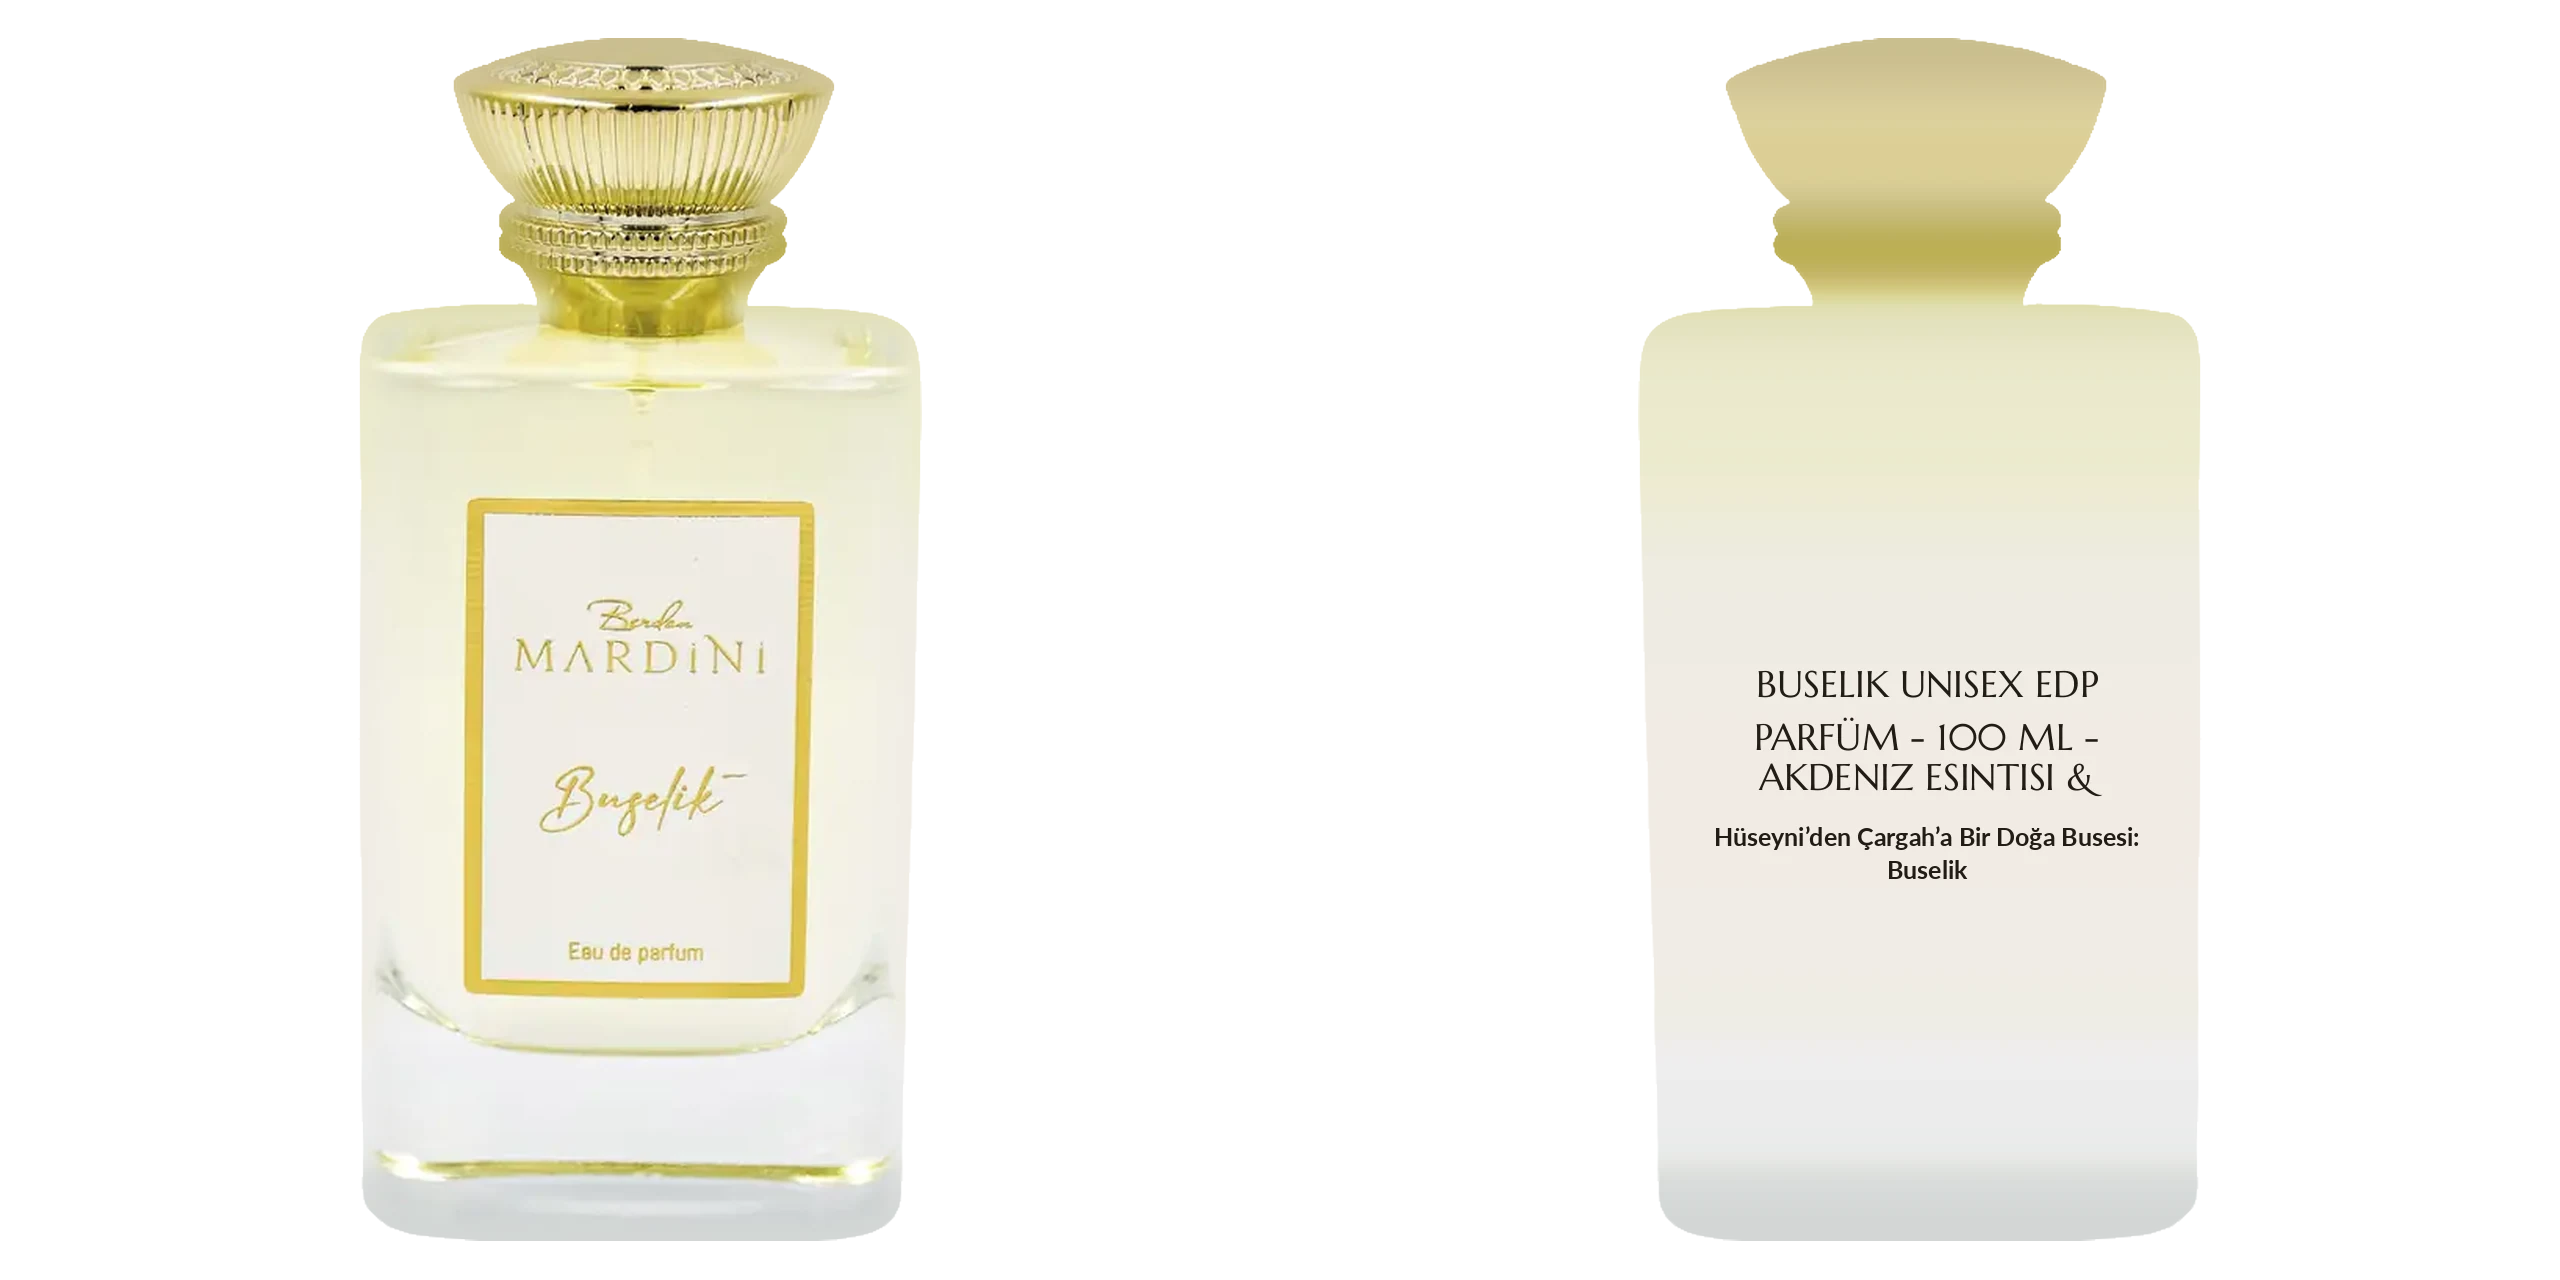
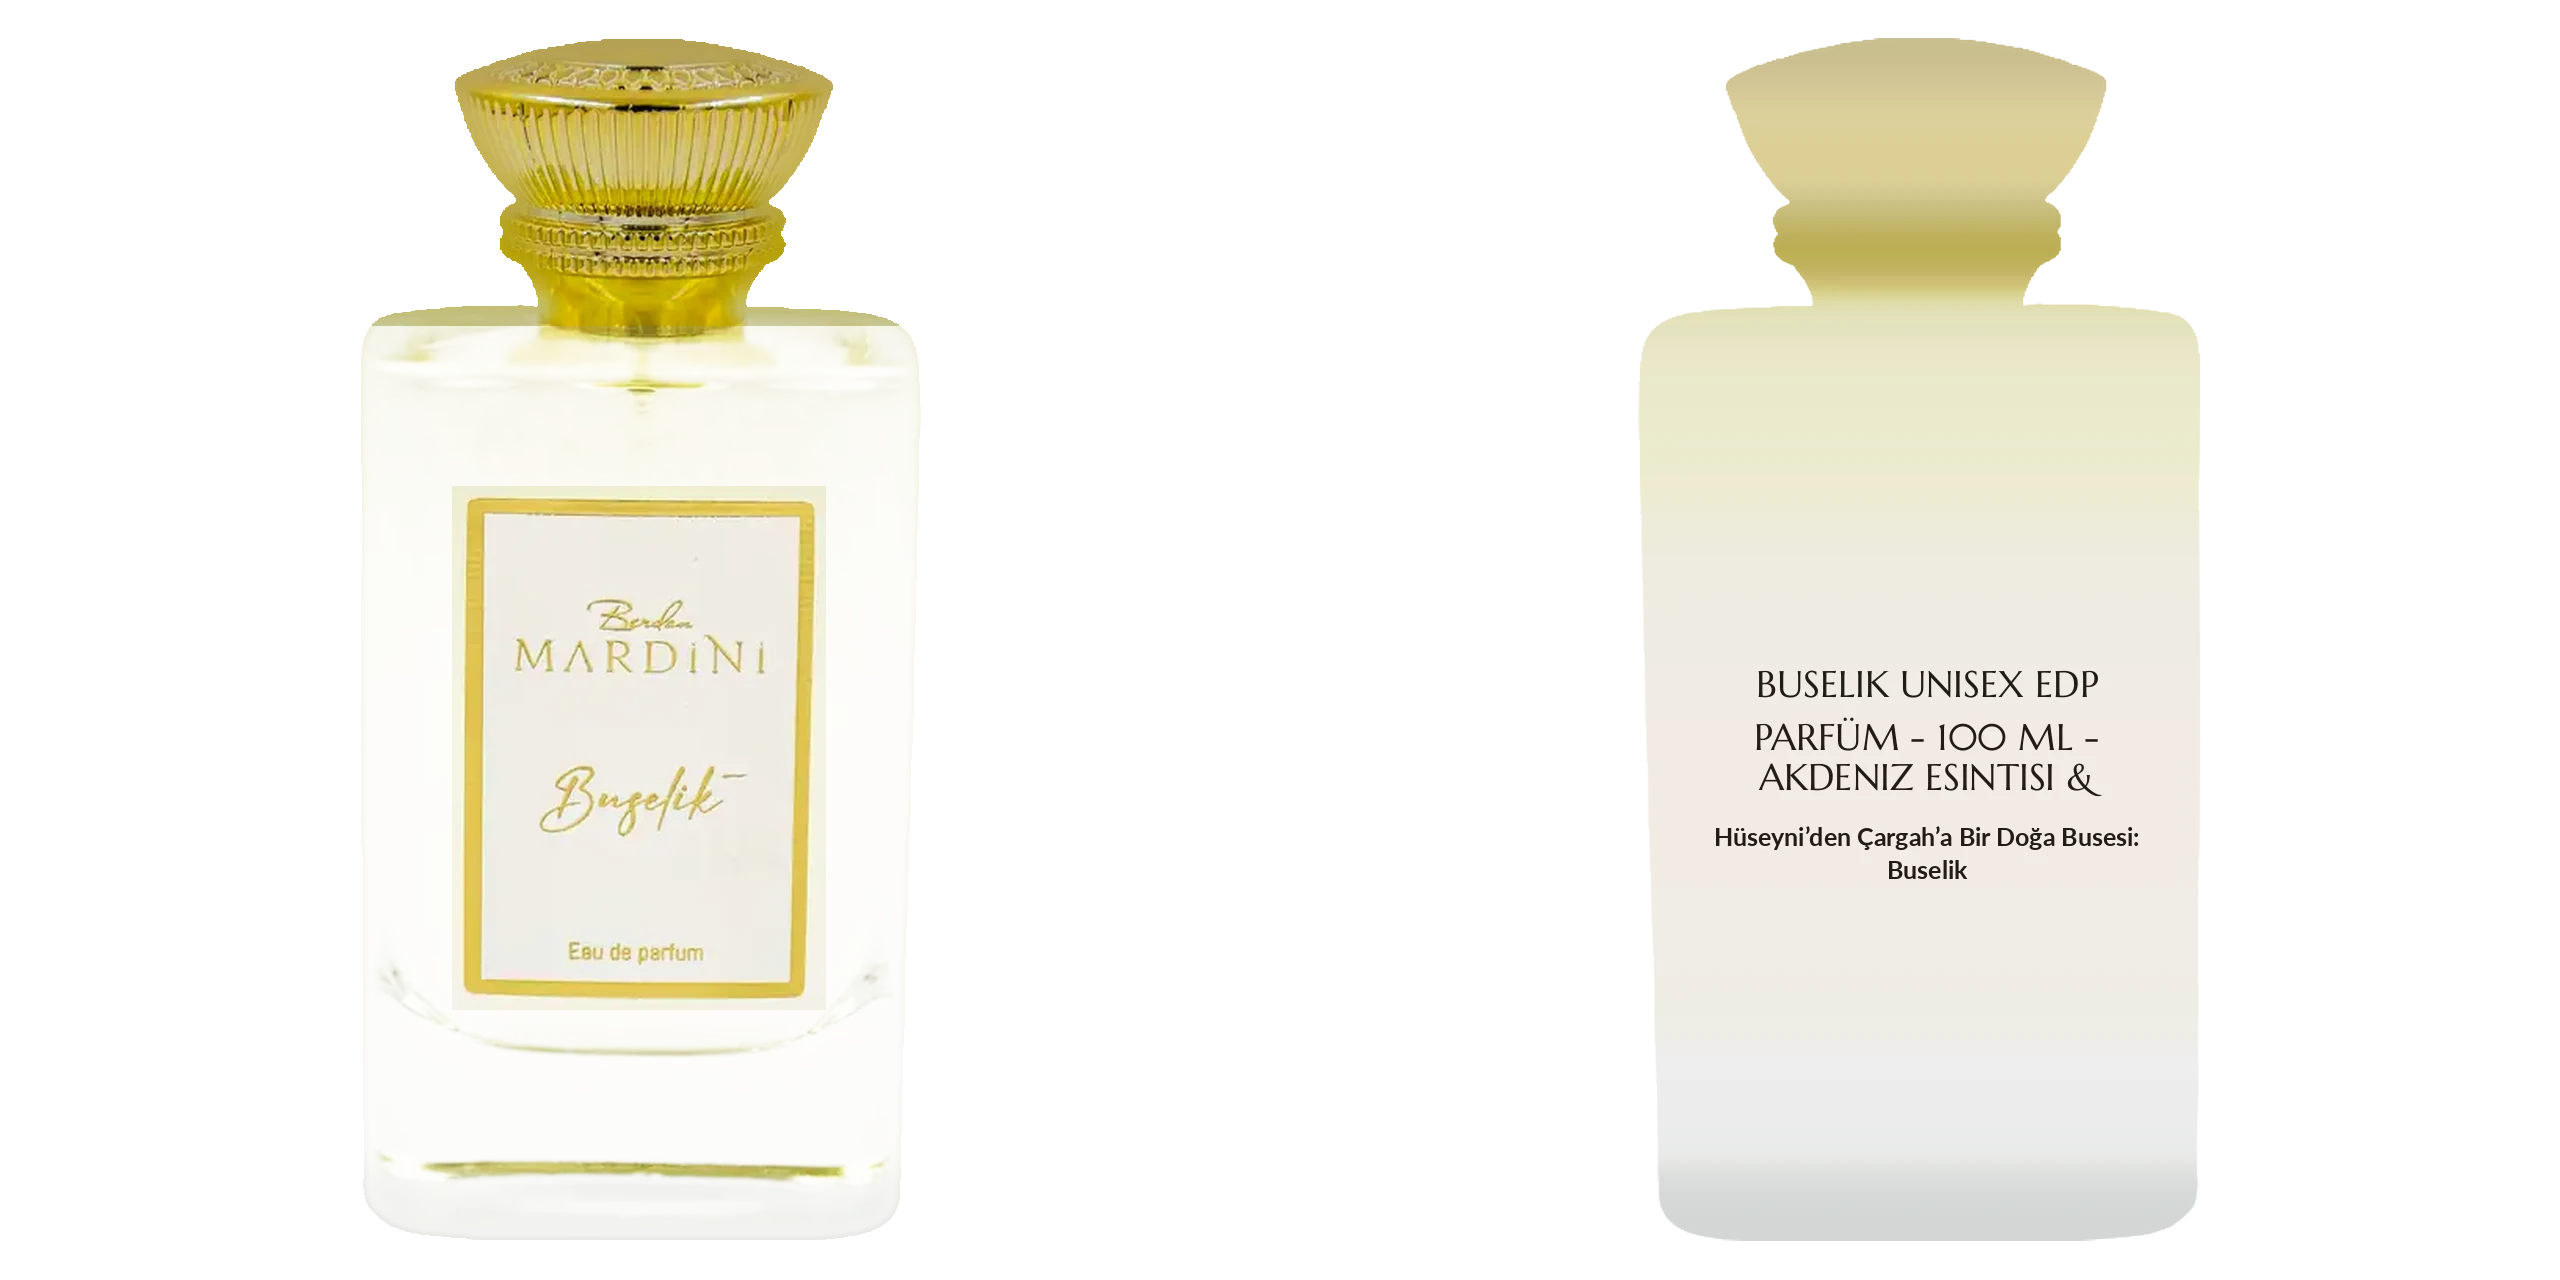
Mardini: şeffaf cam şişeler (glassAlpha)
- shopify-foto: glassAlpha kuralı; etiket dikdörtgeni bulunur, camın içinden
  görünen stüdyo beyazı yarı saydam ve sıvı renginde olur; açık altın kapaklar
  3B ışıkta beyaza kaçmasın diye doygunlaştırılır.
- content.glass: etiket malzemesi saydam çizilir, cam yan yüzleri yarı saydam.

Claude-Session: https://claude.ai/code/session_017jT9ScQr3mTZ7wu3auQ4Cz

Changed region(s): [[0.125, 0.0312, 0.375, 0.5625], [0.125, 0.9062, 0.375, 0.9688], [0.125, 0.75, 0.375, 0.8438]]

diff --git a/demolar/mardini/src/canMaterial.js b/demolar/mardini/src/canMaterial.js
@@ -50,7 +50,8 @@ export function setCanFlavor(uniforms, flavor) {
 
 // Cam şişenin içindeki parfüm ve etiket.
 export function createCanMaterial(base, uniforms) {
-  const material = new MeshPhysicalMaterial({ map: base.map, alphaTest: 0.5, ...FINISH });
+  // content.glass: şeffaf cam şişeler; dokunun alfası yarı saydam camdır, malzeme saydam çizilir.
+  const material = new MeshPhysicalMaterial({ map: base.map, alphaTest: content.glass ? 0.02 : 0.5, transparent: !!content.glass, ...FINISH });
   // Sahne her karede yansımayı ve cilayı kısar/açar; oranlar bu değerlere göre.
   material.userData.finish = FINISH;
 

diff --git a/hope-demo/src/canMaterial.js b/hope-demo/src/canMaterial.js
@@ -50,7 +50,8 @@ export function setCanFlavor(uniforms, flavor) {
 
 // Cam şişenin içindeki parfüm ve etiket.
 export function createCanMaterial(base, uniforms) {
-  const material = new MeshPhysicalMaterial({ map: base.map, alphaTest: 0.5, ...FINISH });
+  // content.glass: şeffaf cam şişeler; dokunun alfası yarı saydam camdır, malzeme saydam çizilir.
+  const material = new MeshPhysicalMaterial({ map: base.map, alphaTest: content.glass ? 0.02 : 0.5, transparent: !!content.glass, ...FINISH });
   // Sahne her karede yansımayı ve cilayı kısar/açar; oranlar bu değerlere göre.
   material.userData.finish = FINISH;
 

diff --git a/demolar/mardini/src/CanMesh.jsx b/demolar/mardini/src/CanMesh.jsx
@@ -599,6 +599,9 @@ export function createBottleParts(f = {}) {
           clearcoatRoughness: 0.04,
           envMapIntensity: 1.5,
           emissive: new Color(S.liquid ?? S.edge).multiplyScalar(0.22),
+          // Saydam cam (glass): kalınlık yüzlerinden de arkadaki sahne görünür.
+          transparent: !!S.glass,
+          opacity: S.glass ? 0.32 : 1,
         })
       : new MeshStandardMaterial({ color: S.edge ?? "#8a7a60", roughness: 0.55, envMapIntensity: 0.6 });
     if (!S.clear) parts.side.color.multiplyScalar(0.78); // kenar ışığı fotoğraftakinden biraz koyu dursun

diff --git a/hope-demo/src/CanMesh.jsx b/hope-demo/src/CanMesh.jsx
@@ -599,6 +599,9 @@ export function createBottleParts(f = {}) {
           clearcoatRoughness: 0.04,
           envMapIntensity: 1.5,
           emissive: new Color(S.liquid ?? S.edge).multiplyScalar(0.22),
+          // Saydam cam (glass): kalınlık yüzlerinden de arkadaki sahne görünür.
+          transparent: !!S.glass,
+          opacity: S.glass ? 0.32 : 1,
         })
       : new MeshStandardMaterial({ color: S.edge ?? "#8a7a60", roughness: 0.55, envMapIntensity: 0.6 });
     if (!S.clear) parts.side.color.multiplyScalar(0.78); // kenar ışığı fotoğraftakinden biraz koyu dursun

diff --git a/demo-fabrikasi/araclar/shopify-foto.py b/demo-fabrikasi/araclar/shopify-foto.py
@@ -19,6 +19,8 @@ Kurallar: markalar/<marka>-kurallar.json → "foto" (hepsi isteğe bağlı):
                                      verilirse yalnızca ürünün o orandan aşağısı (gövde; kapak çevresi boş kalır)
     "clear": "regex"                şeffaf camlı şişeler: 3B'de kalınlık yüzleri içindeki parfümün renginde sıvı dolu cam
                                      (omuz altında hava payı ve sıvı yüzeyinde parlak çizgi)
+    "glassAlpha": "regex"           şeffaf cam şişe: camın içinden görünen stüdyo beyazı yarı saydam; etiket (en büyük
+                                     dikdörtgen kontur), kapak ve cam kenarı olduğu gibi kalır (marka dosyasında "glass": true)
     "edgeFrom": "side"              3B kalınlık yüzlerinin rengi fotoğraftaki yan panelden (kesim kenarından değil)
     "backLang": "en"                arka etiket metni İngilizce mağazadan (mağazanın varsayılan dili Türkçe değilse)
     "solidTop": 0.25                ürünün üst bölümü (oran) delik bırakılmadan dolu kesilir (zemine yakın renkli kapak)
@@ -310,6 +312,72 @@ def seal_front(F):
     w, _ = _edge_weight(F)
     rgb = _row_fill(F) * (1 - w) + a[..., :3] * w
     return Image.fromarray(np.concatenate([rgb, a[..., 3:4]], axis=2).clip(0, 255).astype(np.uint8))
+
+
+def label_rect(F, top):
+    """Şişenin ön etiketi: gövdedeki (boyun altı) en büyük dikdörtgen kontur (etiket çerçevesi).
+    Dönen: (x0, y0, x1, y1) ya da None."""
+    a = np.asarray(F)
+    g = cv2.cvtColor(a[..., :3], cv2.COLOR_RGB2GRAY)
+    m = a[..., 3] > 128
+    rows = np.where(m.any(1))[0]
+    if not len(rows):
+        return None
+    y0 = max(top, rows[0])
+    ed = cv2.Canny(cv2.GaussianBlur(g, (3, 3), 0), 40, 110)
+    ed[:y0] = 0
+    ed = cv2.dilate(ed, np.ones((3, 3), np.uint8))
+    cs, _ = cv2.findContours(ed, cv2.RETR_LIST, cv2.CHAIN_APPROX_SIMPLE)
+    body = m[y0:].sum()
+    best = None
+    for c in cs:
+        x, y, w, h = cv2.boundingRect(c)
+        area = w * h
+        if not (0.1 * body < area < 0.7 * body) or h < w * 0.6:
+            continue
+        # Dikdörtgene yakın mı (kontur alanı kutunun büyük kısmı)
+        if cv2.contourArea(cv2.convexHull(c)) < 0.8 * area:
+            continue
+        if best is None or area > best[4]:
+            best = (x, y, x + w, y + h, area)
+    return best[:4] if best else None
+
+
+def glass_front(F, neck, liquid=None):
+    """Şeffaf cam (glassAlpha): beyaz stüdyo zemininde çekilmiş şişede camın içinden görünen beyaz
+    zemin yarı saydam olur (sahne camın içinden görünür). Etiket, kapak, cam kenarlarındaki koyu
+    çizgiler ve parlamalar olduğu gibi kalır; sıvının hafif rengi korunur."""
+    a = np.asarray(F).astype(np.float32)
+    rgb, al = a[..., :3], a[..., 3]
+    top = int((neck or 0.3) * S) + int(0.02 * S)
+    lab = label_rect(F, top)
+    m = al > 128
+    # Kesimin dış saçağı (stüdyo beyazı) 2 px içeri alınır; silüet kenarında çok ince bir bant cam
+    # kenarı olarak daha az saydamlaşır.
+    d = cv2.distanceTransform(m.astype(np.uint8), cv2.DIST_L2, 5)
+    al = np.where(d < 2, 0, al)
+    edge = np.clip(d / (0.006 * S), 0, 1)
+    region = (d > 0).astype(np.float32) * (0.45 + 0.55 * edge)
+    region[:top] = 0
+    if lab:
+        x0, y0, x1, y1 = lab
+        pad = int(0.008 * S)
+        region[max(0, y0 - pad):y1 + pad, max(0, x0 - pad):x1 + pad] = 0
+    L = rgb.mean(2)
+    sat = rgb.max(2) - rgb.min(2)
+    see = np.clip((L - 150) / 85, 0, 1) * np.clip(1 - (sat - 25) / 60, 0, 1)
+    see = cv2.GaussianBlur(see.astype(np.float32), (0, 0), 1.2) * region
+    tint = np.array(liquid if liquid else [236, 228, 200], np.float32)
+    rgb2 = rgb * (1 - 0.55 * see[..., None]) + tint * 0.55 * see[..., None]
+    al2 = al * (1 - 0.8 * see)
+    # Açık altın kapak 3B ışıkta beyaza kaçmasın: kapaktaki renkli (altın) piksellerin rengi biraz
+    # doygunlaşır ve koyulaşır; gümüş/siyah kapaklar (renksiz) değişmez.
+    cap = np.zeros_like(L)
+    cap[:top] = np.clip((sat[:top] - 12) / 30, 0, 1)
+    Lc = L[..., None]
+    rgb2 = rgb2 * (1 - cap[..., None]) + (Lc + (rgb2 - Lc) * 2.1) * 0.8 * cap[..., None]
+    out = np.concatenate([rgb2, al2[..., None]], 2).clip(0, 255).astype(np.uint8)
+    return Image.fromarray(out), lab
 
 
 def plain_back(F, back_photo=None, text=None):
@@ -903,7 +971,12 @@ def main():
             atlas = Image.new("RGBA", (2 * S, S))
             # Dönen gövdeli ürünler (düz bloklar hariç; kural <marka>-kurallar.json → foto.flat).
             flat = RULES.get("flat") and re.search(RULES["flat"], handle)
-            atlas.paste(F if flat else seal_front(F), (0, 0))
+            front = F if flat else seal_front(F)
+            # glassAlpha: şeffaf cam şişede camın içinden görünen stüdyo beyazı yarı saydam olur (sahne camdan görünür).
+            if RULES.get("glassAlpha") and re.search(RULES["glassAlpha"], handle):
+                front, _ = glass_front(front, entry.get("neck"), entry.get("liquid"))
+                entry["glass"] = True
+            atlas.paste(front, (0, 0))
             atlas.paste(fill, (S, 0))
             os.makedirs(os.path.join(OUT, "labels"), exist_ok=True)
             atlas.save(os.path.join(OUT, "labels", f"{handle}.webp"), quality=88, method=5)

diff --git a/demo-fabrikasi/araclar/shopify-aktar.py b/demo-fabrikasi/araclar/shopify-aktar.py
@@ -112,6 +112,8 @@ def photo3d(h, m):
     shape = {"axis": m.get("axis", 0.5), "rows": m.get("rows", []), "outline": m.get("outline", []), "edge": hexc(m.get("edge", [120, 110, 90]))}
     if m.get("clear"):
         shape.update(clear=True, liquid=hexc(m["liquid"]))
+    if m.get("glass"):
+        shape["glass"] = True
     if P.get("flask") and re.search(P["flask"], h) and m.get("neck"):
         return {"profile": "flask", "neck": m["neck"], "depthRatio": P.get("depthRatio", 0.42), **shape}
     if P.get("flat") and re.search(P["flat"], h):

diff --git a/demo-fabrikasi/KONTROL-LISTESI.md b/demo-fabrikasi/KONTROL-LISTESI.md
@@ -166,3 +166,4 @@ Her demo markaya gönderilmeden önce bu liste baştan sona kontrol edilir. List
 | Attar al Has | Ürünler daha gerçekçi olsun, içlerinde parfüm varmış gibi görünsün, kemer daha premium olsun | Yan yüzler fotoğraftaki yan panelin renginde (`edgeFrom: side`; önce stüdyo zemininden bej çıkıyordu), gövde inceltildi (depthRatio 0.36), kart açısı fotoğrafın 3/4 açısıyla aynı yönde (`theme.cardAngle`), daha mat yüzey (`labelFinish`). Şeffaf 12 şişede kalınlık yüzleri sıvı dolu cam (`foto.clear`: en doygun şeritten sıvı rengi, hava payı, menisküs, derinleşen renk). Kemer: metalik altın + gezinen parıltı, sekiz köşeli yıldız bandı, ayak başlıkları, hilalli alem, mukarnas olukları; menünün altına sığar |
 | Attar al Has | Ürünler bölümündeki kartlar kalitesiz; ana sayfada 4. ürün siyah şişe olsun | Kartlar `kart-3b.py --stage`: sivri Osmanlı kemerli niş (glide temasında), yıldızlı altın çerçeve, başlıklar, hilalli alem, kokunun renginde niş ışığı, mermer kaide. Ana sayfada Harmonic Tourmaline yerine Leather Effecto; ana sayfada olmayan ürünü gösteren ritüel adımı sayfayı çökertiyordu → adım Leather Effecto'ya bağlandı, aktarım artık böyle adımları uyarıyla atlar. Kategori sayfasında kemer sekmelerin altında |
 | Mardini | Yeni müşteri (ikas altyapısı, 123 ürün); 20–30 ürün istendi | `ikas-cek.py` (yeni): ürün verisi, çeviriler, nota piramidi; 23 ürün seçildi (8 Gold, 8 Silver, 7 gül/bakım). İlk görselde şişe kutusuyla birlikte → `foto.hero` ile kutusuz görsel. `theme.carousel: "dolly"`: taş kemerli koridor, gül yaprakları; geçişte ürünler çakışmaz (giden hızlı söner, gelen derinlikte belirir); telefonda kemerler ekrana sığar. Sepet ikas ürün sayfasını açar. Masaüstü + telefon + geçiş kontrol edildi |
+| Mardini | Şişeler basit ve kötü duruyordu (şeffaf cam, beyaz zeminde çekildiği için 3B'de opak beyaz blok gibiydi) | `foto.glassAlpha` + `"glass": true`: etiket en büyük dikdörtgen kontur olarak bulunur; camın içinden görünen stüdyo beyazı yarı saydam ve sıvı renginde olur, kapak/etiket/cam kenarı olduğu gibi kalır; malzeme saydam çizilir, yan yüzler yarı saydam cam. Açık altın kapaklar 3B ışıkta beyaza kaçmasın diye kapaktaki altın pikseller doygunlaştırılır |

diff --git a/demo-fabrikasi/README.md b/demo-fabrikasi/README.md
@@ -106,6 +106,8 @@ Markaya özgü her şey iki dosyada:
 - `markalar/<marka>.json`: marka metinleri (hikâye, SSS, satış noktaları, özellik kartları, arayüz yazıları, `commerce`, `latinTerms`). İskelet olarak bir önceki markanınki kopyalanır, metinler markanın sayfalarından yazılır.
 - `markalar/<marka>-kurallar.json`: `foto` (yapay zekâ kesimi, setlerin içeriği, gerçek boylar, arka fotoğraf kullanılsın mı) ve `aktar` (kategoriler, 3B biçimleri, koku notaları, ana sayfa sırası, ritüel, adlar). Alanlar araçların başındaki açıklamada.
 
+Şeffaf cam şişeler beyaz zeminde çekildiyse 3B'de opak beyaz blok gibi görünür: `foto.glassAlpha: "<handle regex>"` ve marka dosyasında `"glass": true` ile camın içinden görünen stüdyo beyazı yarı saydam (sıvı renginde) olur, etiket (en büyük dikdörtgen kontur), kapak ve cam kenarı olduğu gibi kalır; sahne camın içinden görünür (örnek: Mardini).
+
 3B biçimler: `round` (dönen gövde), `flat` (pahlı blok), `flask` (küre/silindir kapak dönen gövde + yassı şişe gövdesi; boyun fotoğraftan bulunur), `group` (set: her ürün ayrı parça). Sepet `commerce.shopify` ile markanın kendi ödeme sayfasına gider (`/cart/<varyant>:<adet>`).
 
 ## Sahne kimliği (tema): her marka kendine özgü
